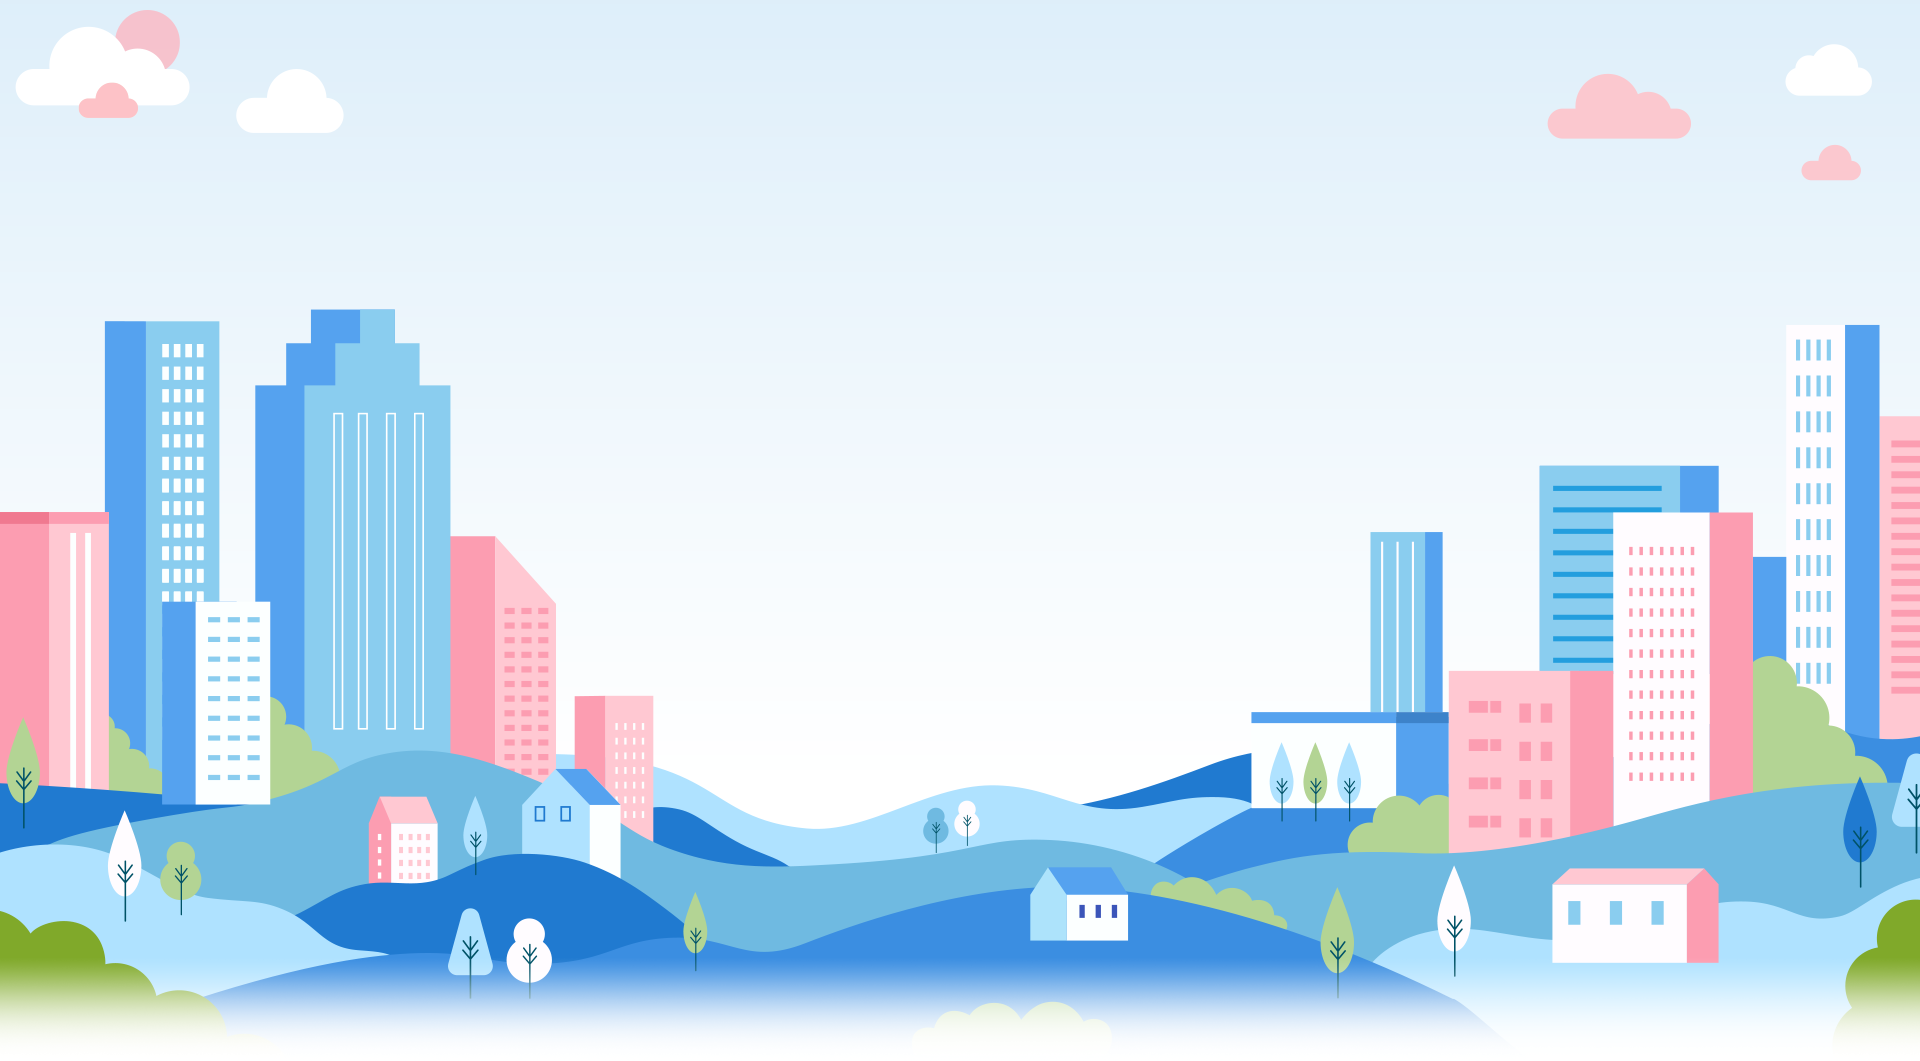
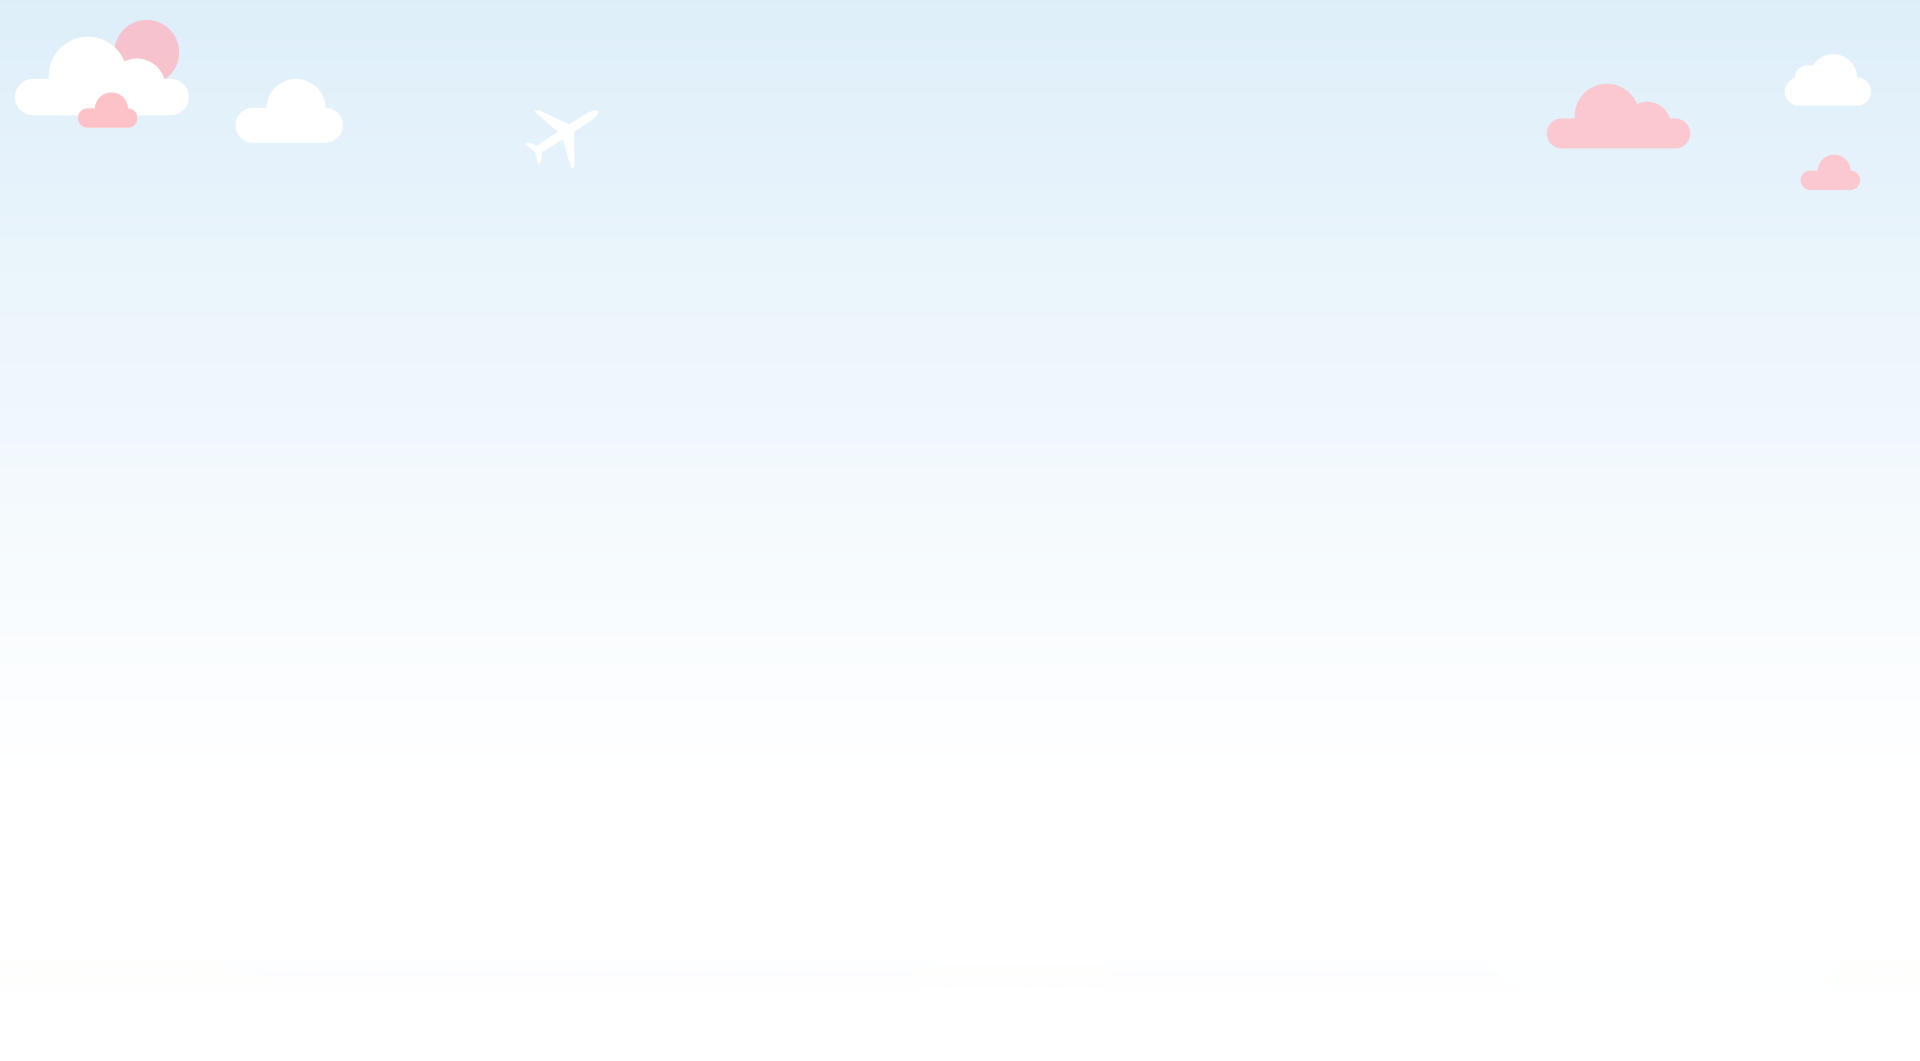
temp

diff --git a/index.html b/index.html
@@ -14,17 +14,21 @@
 
         <div class="bam-village-outer">
 
-            <section class="bam-village-banner">
+            <section class="bam-village-banner" data-scroll-show-parent>
                 <img class="banner-bg fullimg for-pc" src="img/bam-village-banner-bg.png">
+                <img class="banner-bg-front fullimg for-pc" data-scroll-show="200" src="img/bam-village-banner-bg-1.png">
+                <img class="banner-bg-front fullimg for-pc" data-scroll-show="400" src="img/bam-village-banner-bg-2.png">
+                <img class="banner-bg-front fullimg for-pc" data-scroll-show="600" src="img/bam-village-banner-bg-3.png">
+                <img class="banner-bg-front fullimg for-pc" data-scroll-show="800" src="img/bam-village-banner-bg-4.png">
                 <img class="banner-bg fullimg for-m" src="img/bam-village-banner-bg-m.png">
                 <div class="bam-village-title-wrap">
                     <div>
                         <img src="img/bam-village-banner-title.png">
                     </div>
                 </div>
-                <div class="banner-talk" data-scroll-show="1000">
+                <div class="banner-talk" data-scroll-show="1500">
                     <img class="fullimg" src="img/bam-village-banner-talk.png">
-                    <article data-type-effect="1500">歡迎來到南山樂活村，<br>我是這裡的村長郝健康。<br>讓我來跟您介紹一下樂活村裡的每個角落吧!</article>
+                    <article data-type-effect="1750">歡迎來到南山樂活村，<br>我是這裡的村長郝健康。<br>讓我來跟您介紹一下樂活村裡的每個角落吧!</article>
                 </div>
             </section>
 

diff --git a/css/index.css b/css/index.css
@@ -181,6 +181,29 @@ input[type="radio"]:checked + label p::after {
   background: #eaf8ff;
 }
 
+.bam-village-banner::after {
+  position: absolute;
+  display: block;
+  content: '';
+  width: 100%;
+  height: 150px;
+  bottom: 0;
+  left: 0;
+  background: -webkit-gradient(linear, left top, left bottom, from(rgba(234, 248, 255, 0)), color-stop(75%, #eaf8ff));
+  background: linear-gradient(to bottom, rgba(234, 248, 255, 0), #eaf8ff 75%);
+}
+
+.bam-village-banner .banner-bg-front {
+  position: absolute;
+  width: 100%;
+  top: 0;
+  left: 0;
+  -webkit-transition: opacity 1s, -webkit-transform 1s !important;
+  transition: opacity 1s, -webkit-transform 1s !important;
+  transition: transform 1s, opacity 1s !important;
+  transition: transform 1s, opacity 1s, -webkit-transform 1s !important;
+}
+
 .bam-village-banner .bam-village-title-wrap {
   position: absolute;
   left: 30vw;
@@ -1483,8 +1506,8 @@ input[type="radio"]:checked + label p::after {
 }
 
 .bam-village-banner .bam-village-title-wrap > div {
-  -webkit-animation: cut 1s 0.5s forwards;
-          animation: cut 1s 0.5s forwards;
+  -webkit-animation: cut 1s 1.5s forwards;
+          animation: cut 1s 1.5s forwards;
 }
 
 .bam-village-library .bam-village-library-book {
@@ -1724,6 +1747,9 @@ input[type="radio"]:checked + label p::after {
   }
   .bam-village-banner {
     background: #fff1e8;
+  }
+  .bam-village-banner::after {
+    display: none;
   }
   .bam-village-banner .bam-village-title-wrap {
     left: 5vw;

diff --git a/css/index.sass b/css/index.sass
@@ -51,6 +51,21 @@ $bg: #f6f6f6
 .bam-village-banner
     position: relative
     background: $sky
+    &::after
+        position: absolute
+        display: block
+        content: ''
+        width: 100%
+        height: 150px
+        bottom: 0
+        left: 0
+        background: linear-gradient(to bottom, rgba(234, 248, 255, 0), $sky 75%)
+    .banner-bg-front
+        position: absolute
+        width: 100%
+        top: 0
+        left: 0
+        transition: transform 1s, opacity 1s! important
     .bam-village-title-wrap
         position: absolute
         left: 30vw
@@ -899,7 +914,7 @@ $bg: #f6f6f6
 .bam-village-banner
     .bam-village-title-wrap
         > div
-            animation: cut 1s 0.5s forwards
+            animation: cut 1s 1.5s forwards
 
 .bam-village-library
     .bam-village-library-book
@@ -1058,6 +1073,8 @@ $bg: #f6f6f6
         
     .bam-village-banner
         background: #fff1e8
+        &::after
+            display: none
         .bam-village-title-wrap
             left: 5vw
             width: 90vw
